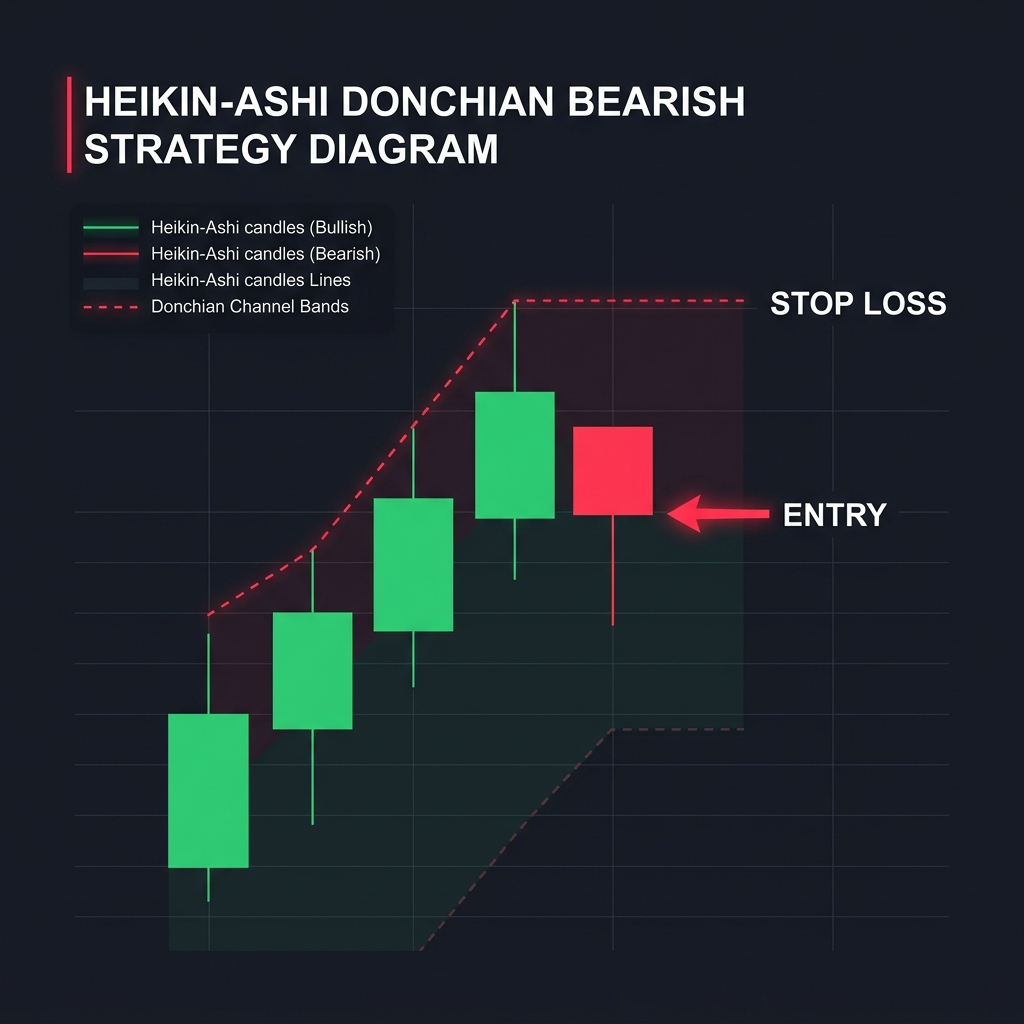
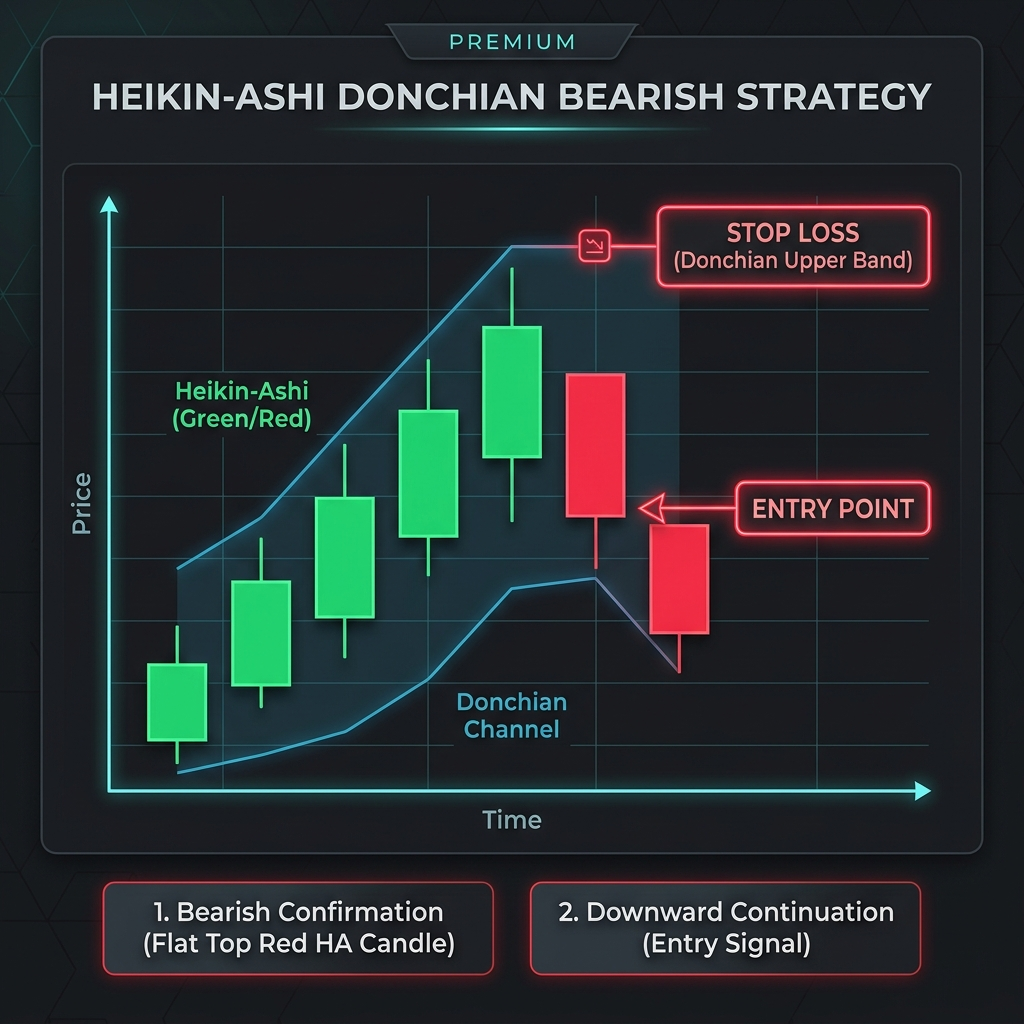
docs: correct entry candle annotation on bearish diagram and bust cache

diff --git a/js/ui/app.js b/js/ui/app.js
@@ -181,12 +181,12 @@ const STRATEGY_INFO = {
   ha_donchian_bullish: {
     name: 'HA Donchian Bullish',
     desc: 'A mechanical trend-following strategy by Brijesh Bhatia. It uses smoothed Heikin-Ashi candles to filter market noise and identifies early bullish reversals when the Heikin-Ashi candle color flips green with a flat bottom (no lower shadow) after at least 3 red exhaustion candles. Trades are trailed dynamically using the Donchian Channel.',
-    example: '<img src="/assets/ha_donchian_bullish_diagram.png?v=2" style="width:100%; border-radius:6px; margin-bottom:12px; border:1px solid rgba(255,255,255,0.1);"><strong>Entry:</strong> Buy at the open of the next candle (once the confirmation green HA candle closes).<br><strong>Stop Loss:</strong> Trailing stop at the lower Donchian Channel band (lowest low of last 3 candles for swing, 5 candles for weekly positional, or 2 candles for scalping).<br><strong>Target:</strong> Ride the trend until the trailing stop is hit (no fixed target).<br><br><span style="color:var(--text-muted)"><strong>Context:</strong> E.g., RELIANCE drops for 4 days (3+ red HA candles). Today, it prints a green HA candle with no lower shadow (flat bottom). You buy at the open of the next candle and trail the lowest low of the last 3 days.</span>'
+    example: '<img src="/assets/ha_donchian_bullish_diagram.png?v=3" style="width:100%; border-radius:6px; margin-bottom:12px; border:1px solid rgba(255,255,255,0.1);"><strong>Entry:</strong> Buy at the open of the next candle (once the confirmation green HA candle closes).<br><strong>Stop Loss:</strong> Trailing stop at the lower Donchian Channel band (lowest low of last 3 candles for swing, 5 candles for weekly positional, or 2 candles for scalping).<br><strong>Target:</strong> Ride the trend until the trailing stop is hit (no fixed target).<br><br><span style="color:var(--text-muted)"><strong>Context:</strong> E.g., RELIANCE drops for 4 days (3+ red HA candles). Today, it prints a green HA candle with no lower shadow (flat bottom). You buy at the open of the next candle and trail the lowest low of the last 3 days.</span>'
   },
   ha_donchian_bearish: {
     name: 'HA Donchian Bearish',
     desc: 'A mechanical trend-following strategy by Brijesh Bhatia. Identifies early bearish reversals when the Heikin-Ashi candle flips red with a flat top (no upper shadow) after at least 3 green exhaustion candles. Trades are trailed dynamically using the Donchian Channel.',
-    example: '<img src="/assets/ha_donchian_bearish_diagram.png?v=2" style="width:100%; border-radius:6px; margin-bottom:12px; border:1px solid rgba(255,255,255,0.1);"><strong>Entry:</strong> Short/Sell at the open of the next candle (once the confirmation red HA candle closes).<br><strong>Stop Loss:</strong> Trailing stop at the upper Donchian Channel band (highest high of last 3 candles for swing, 5 candles for weekly positional, or 2 candles for scalping).<br><strong>Target:</strong> Ride the trend until the trailing stop is hit.<br><br><span style="color:var(--text-muted)"><strong>Context:</strong> E.g., SBIN rallies for 5 days (3+ green HA candles). Today, it prints a red HA candle with no upper shadow (flat top). You short at the open of the next candle and trail the highest high of the last 3 days.</span>'
+    example: '<img src="/assets/ha_donchian_bearish_diagram.png?v=3" style="width:100%; border-radius:6px; margin-bottom:12px; border:1px solid rgba(255,255,255,0.1);"><strong>Entry:</strong> Short/Sell at the open of the next candle (once the confirmation red HA candle closes).<br><strong>Stop Loss:</strong> Trailing stop at the upper Donchian Channel band (highest high of last 3 candles for swing, 5 candles for weekly positional, or 2 candles for scalping).<br><strong>Target:</strong> Ride the trend until the trailing stop is hit.<br><br><span style="color:var(--text-muted)"><strong>Context:</strong> E.g., SBIN rallies for 5 days (3+ green HA candles). Today, it prints a red HA candle with no upper shadow (flat top). You short at the open of the next candle and trail the highest high of the last 3 days.</span>'
   }
 };
 
